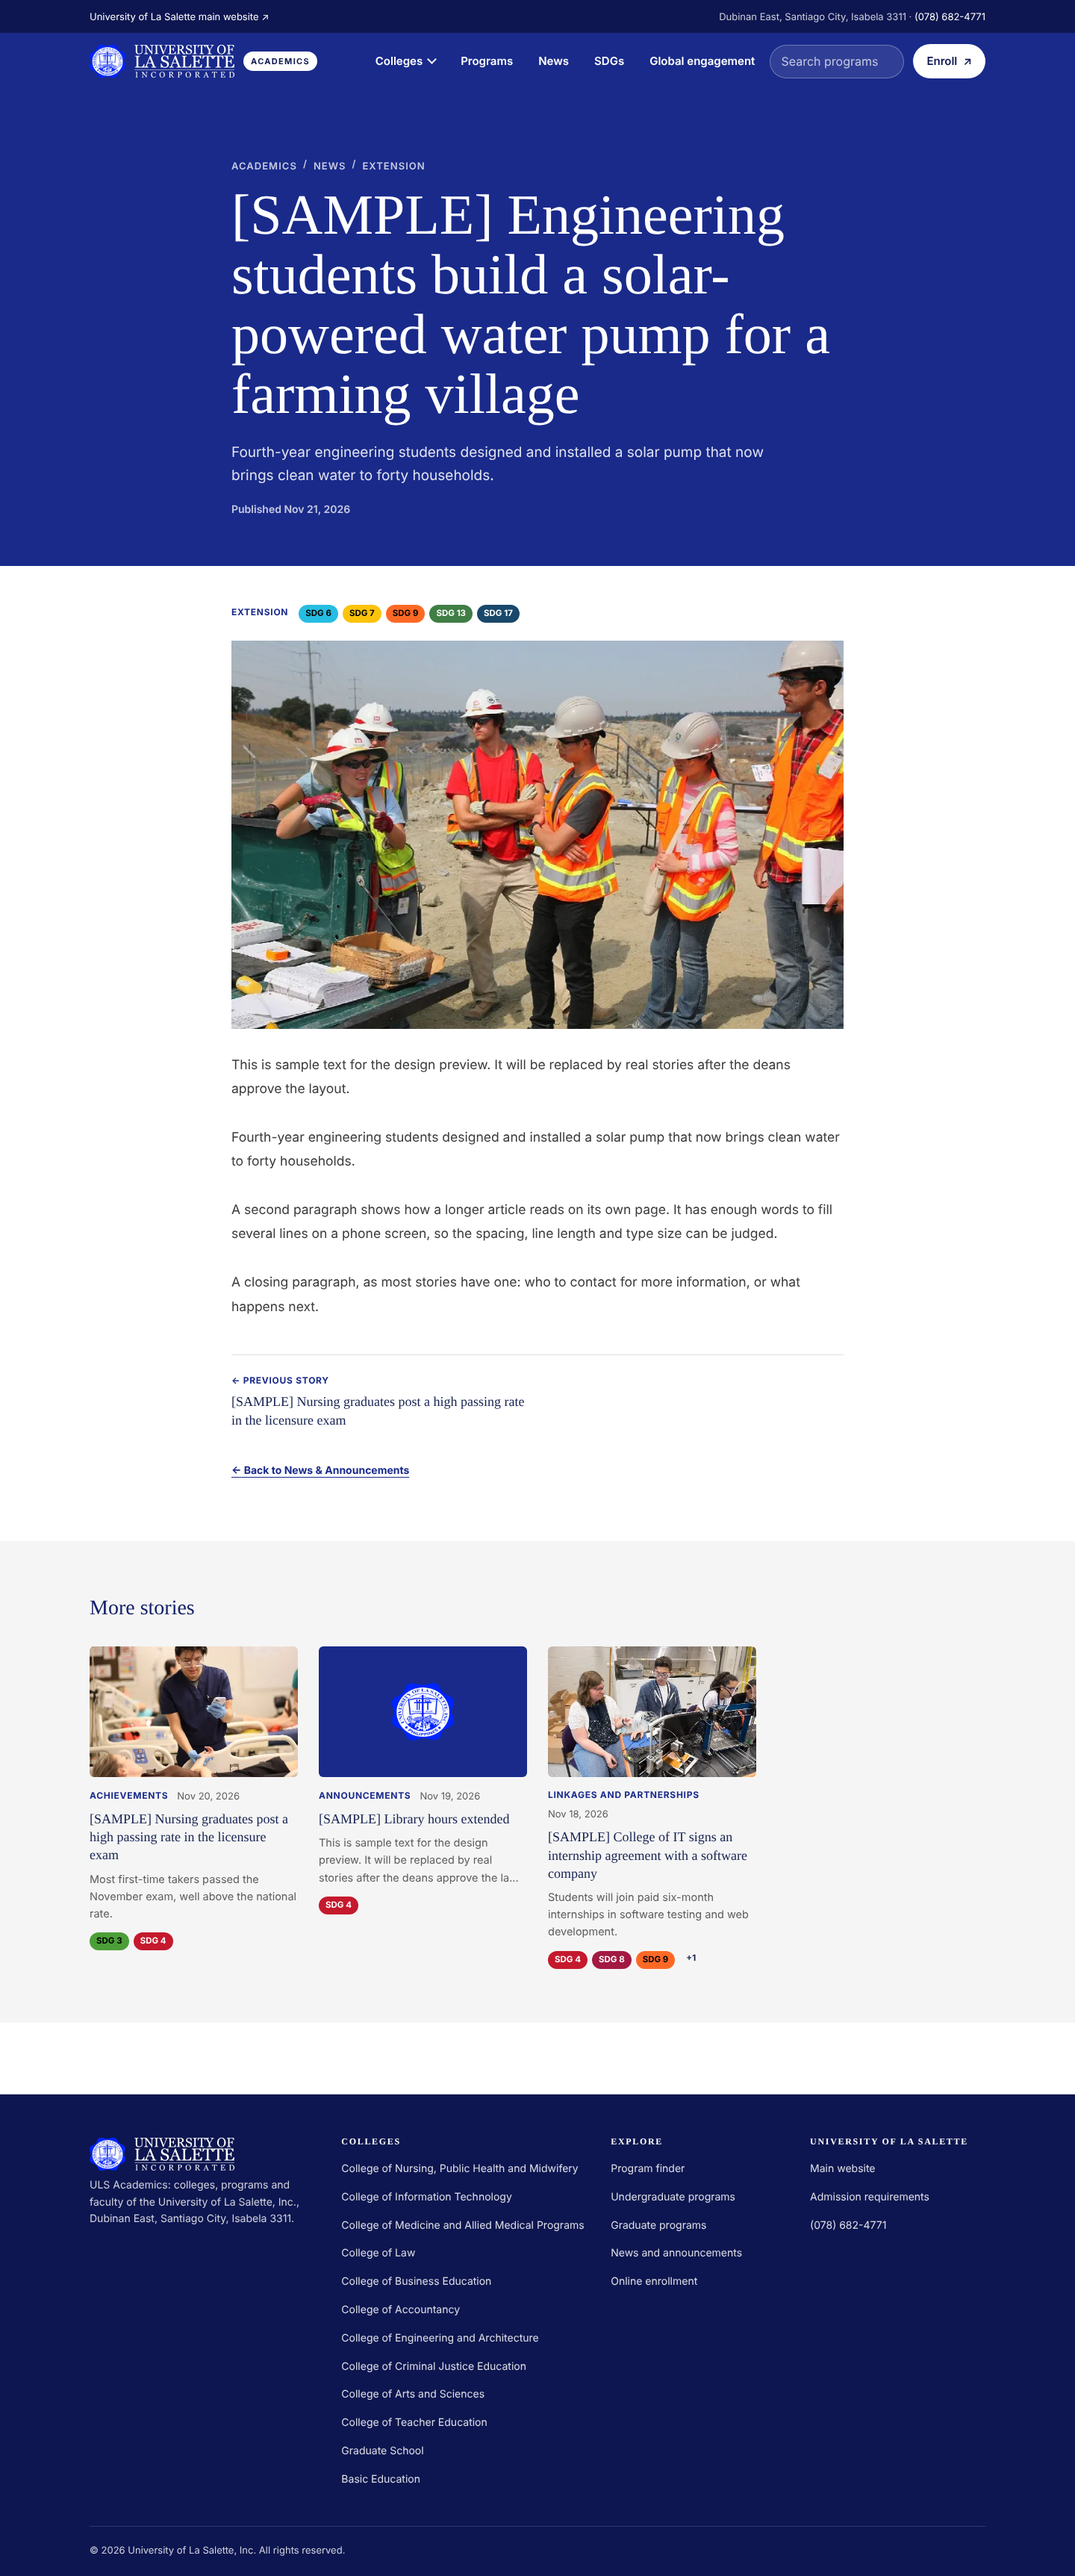
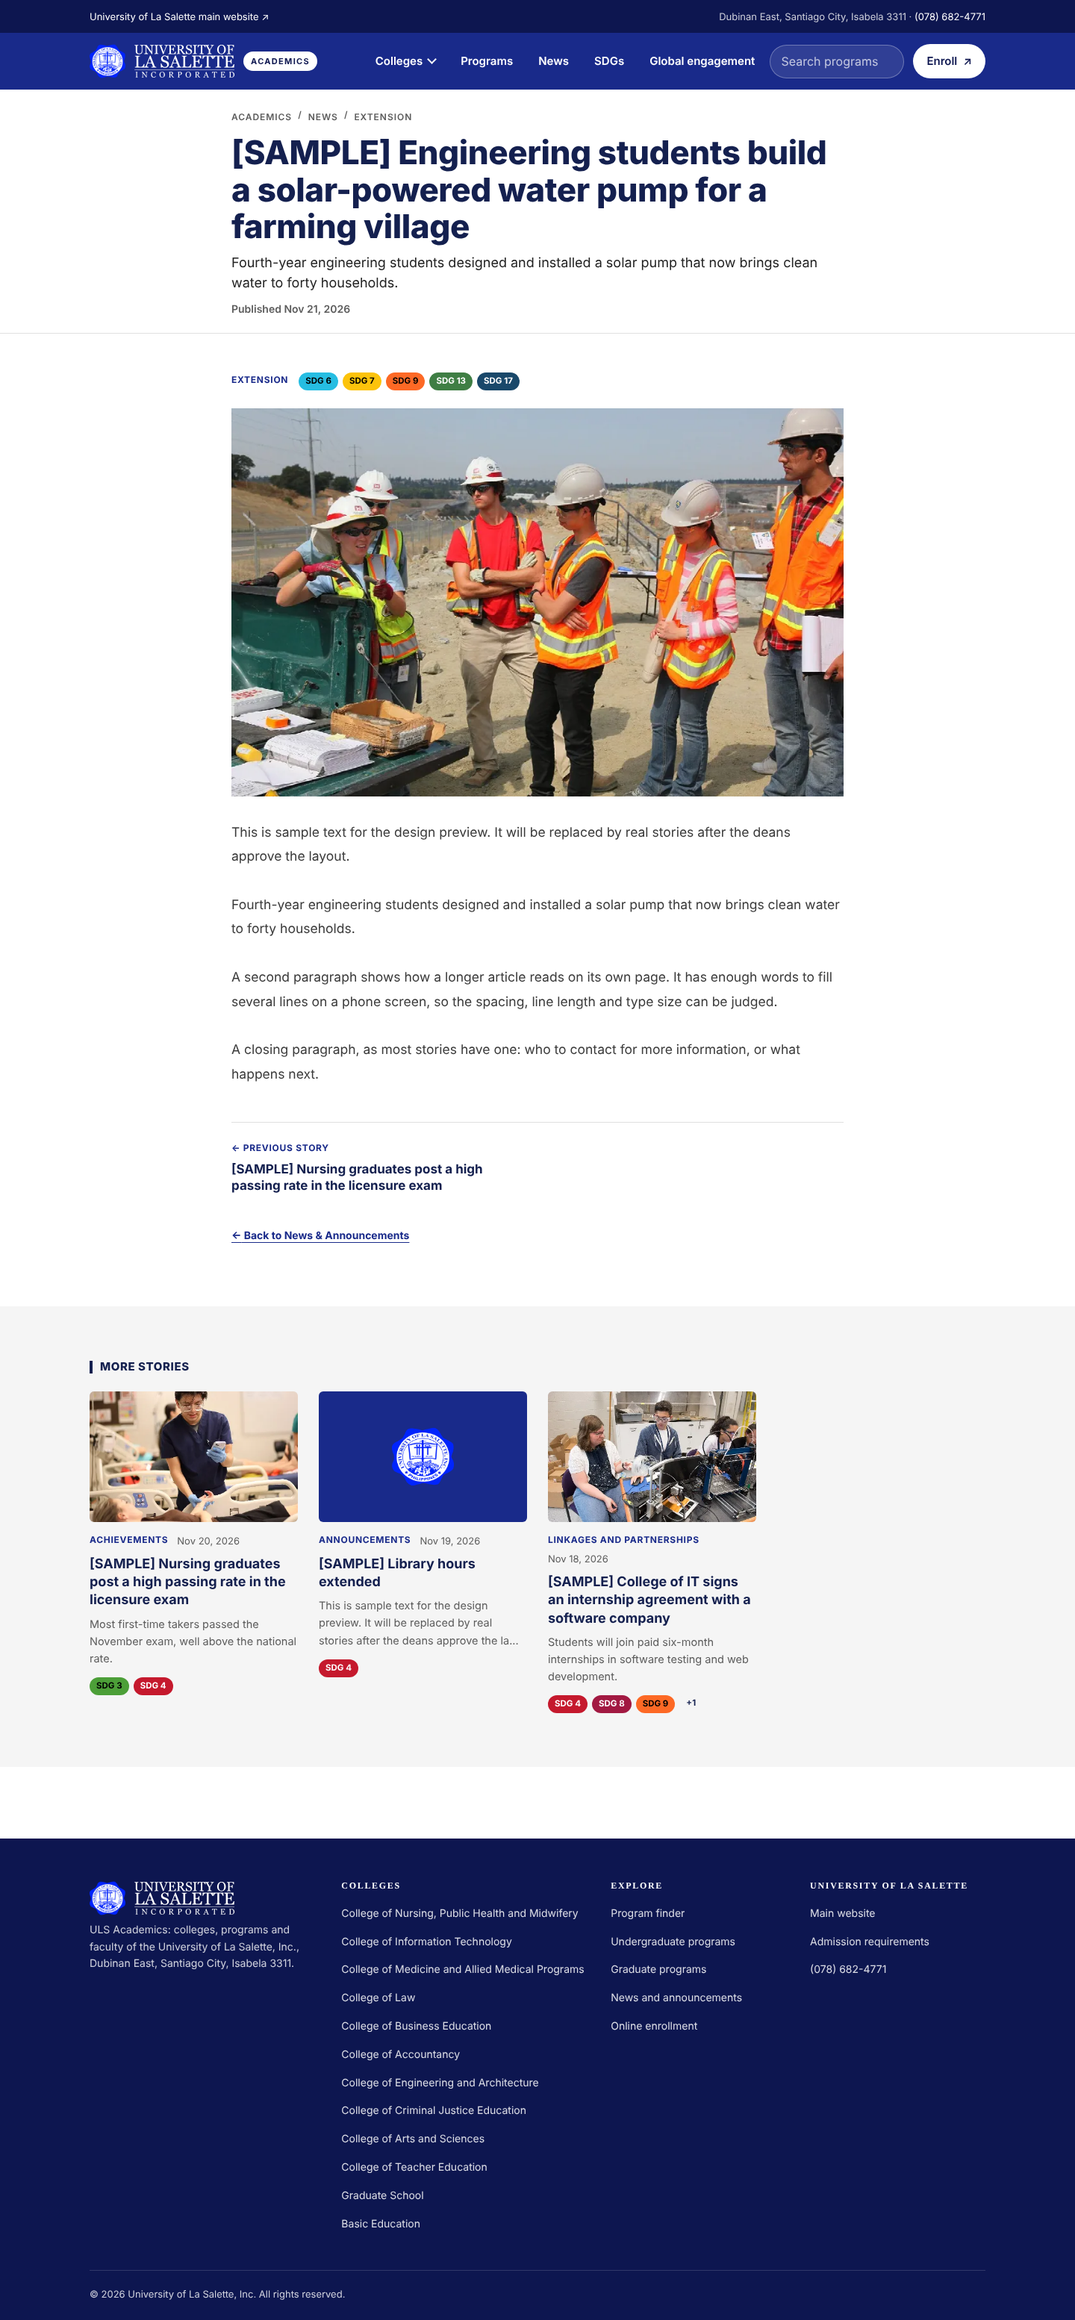
Carry the news page's new look to articles and every news card
- The article page still had the old navy banner with a large serif
  title; it now opens with the same compact white header as the news
  page: breadcrumb, bold headline, summary and date, aligned with the
  article text
- News cards on the home, college, SDG and Global pages and under
  "More stories" now use the same bold sans-serif headlines as the
  news page (those pages set serif on every h3); the article's
  "More stories" title gets the uppercase style with a bar, and the
  previous / next story titles are bold sans-serif too. No colors change
- Keyboard: the story rail is a Tab stop only where it scrolls (phones),
  not on the desktop grid
- Retook the design preview screenshots of the article page

Claude-Session: https://claude.ai/code/session_01LcMyg8Y3fzWt6nxCWXxJzR

diff --git a/public/css/news-card.css b/public/css/news-card.css
@@ -116,11 +116,18 @@
 .news-item:hover .news-item-media img {
     scale: 1.06;
 }
+/* Story headlines: bold sans-serif, the same on every page that shows news (CNN-style); academics pages
+   set serif on every h3, so the heading itself gets the site's sans-serif (body) font */
+.news-feature h2,
+.news-feature h3,
+.news-card h3 {
+    font-family: "Segoe UI", Arial, sans-serif;
+}
 .news-feature h2 a,
 .news-feature h3 a,
 .news-card h3 a {
-    font-family: var(--v3-serif);
-    font-weight: 400;
+    font-family: inherit;
+    font-weight: 700;
 }
 
 
@@ -181,6 +188,32 @@
 .news-masthead-lead a {
     color: var(--navy);
     text-decoration: underline;
+}
+
+/* Article page: the same compact header, aligned with the article text */
+.article-masthead-inner {
+    display: flex;
+    flex-direction: column;
+    gap: 10px;
+    width: min(820px, calc(100% - 40px));
+    margin: 0 auto;
+    padding: 24px 0 20px;
+}
+.article-masthead h1 {
+    font-size: clamp(30px, 4vw, 44px);
+    line-height: 1.12;
+}
+.article-masthead-lead {
+    margin: 0;
+    color: #222222;
+    font-size: 18px;
+    line-height: 1.5;
+}
+.article-masthead-date {
+    margin: 0;
+    color: var(--muted);
+    font-size: 14px;
+    font-weight: 600;
 }
 
 /* One toolbar row: search, category tabs, "Goals" menu */
@@ -329,13 +362,9 @@
     text-underline-offset: 3px;
 }
 
-/* Bold sans-serif headlines and section titles with a bar, on the front page only */
-.news-front .news-feature h3 a,
-.news-front .news-card h3 a {
-    font-family: inherit;
-    font-weight: 700;
-}
-.news-front .news-index-heading {
+/* Section titles with a bar: the news page and the article page's "More stories" */
+.news-front .news-index-heading,
+.article-related h2 {
     display: flex;
     align-items: center;
     gap: 10px;
@@ -349,7 +378,8 @@
     letter-spacing: 0.04em;
     text-transform: uppercase;
 }
-.news-front .news-index-heading::before {
+.news-front .news-index-heading::before,
+.article-related h2::before {
     content: "";
     flex: none;
     width: 4px;
@@ -556,8 +586,9 @@
     text-transform: uppercase;
 }
 .article-pager-title {
-    font-family: var(--v3-serif);
-    font-size: 18px;
+    font-family: inherit;
+    font-size: 17px;
+    font-weight: 700;
     line-height: 1.35;
 }
 .article-pager a:hover .article-pager-title {

diff --git a/resources/js/site.js b/resources/js/site.js
@@ -71,6 +71,7 @@ document.querySelectorAll('.news-rail-wrap').forEach((wrap) => {
             button.hidden = hide;
         }
         dots.hidden = ! scrollable;
+        rail.tabIndex = scrollable ? 0 : -1; // a Tab stop only where it scrolls (phones), not on the desktop grid
         const current = atEnd ? cards.length - 1 : Math.round(rail.scrollLeft / step());
         [...dots.children].forEach((dot, i) => dot.classList.toggle('is-current', i === current));
     };

diff --git a/resources/views/news/show.blade.php b/resources/views/news/show.blade.php
@@ -22,8 +22,9 @@
 @php($label = fn (string $key, array $replace = []) => Site::text("news.labels.$key", $replace))
 
 @section('content')
-<section class="page-banner article-banner">
-    <div class="page-banner-inner">
+{{-- Compact header like the news page: headline, summary and date, aligned with the article text --}}
+<section class="news-masthead article-masthead">
+    <div class="article-masthead-inner">
         <nav class="page-breadcrumb" aria-label="{{ \App\Support\Site::text('a11y.breadcrumb') }}">
             <a href="{{ route('academics.index') }}">{{ Site::text('header.brand_label') ?: Site::text('contact.site_name') }}</a>
             <span aria-hidden="true">/</span>
@@ -37,10 +38,10 @@
         <h1>{{ $article->title }}</h1>
 
         @if ($article->excerpt)
-            <p class="page-banner-lead">{{ $article->excerpt }}</p>
+            <p class="article-masthead-lead">{{ $article->excerpt }}</p>
         @endif
 
-        <p class="article-date">{{ $label('published', ['date' => $article->displayDate()]) }}</p>
+        <p class="article-masthead-date">{{ $label('published', ['date' => $article->displayDate()]) }}</p>
     </div>
 </section>
 

diff --git a/tests/Feature/NewsFrontPageTest.php b/tests/Feature/NewsFrontPageTest.php
@@ -126,6 +126,7 @@ class NewsFrontPageTest extends TestCase
             ->assertSee(route('news.show', 'last'))
             ->assertSee('Previous story')
             ->assertSee('Next story')
+            ->assertSee('<section class="news-masthead article-masthead">', false) // same compact header as the news page
             ->assertSee(route('news.index', ['sdg' => 4]), false);
     }
 }
